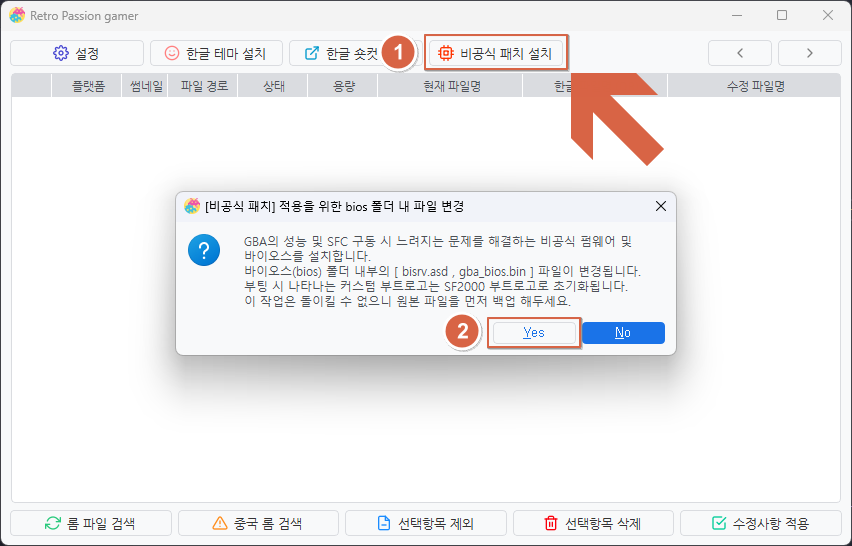
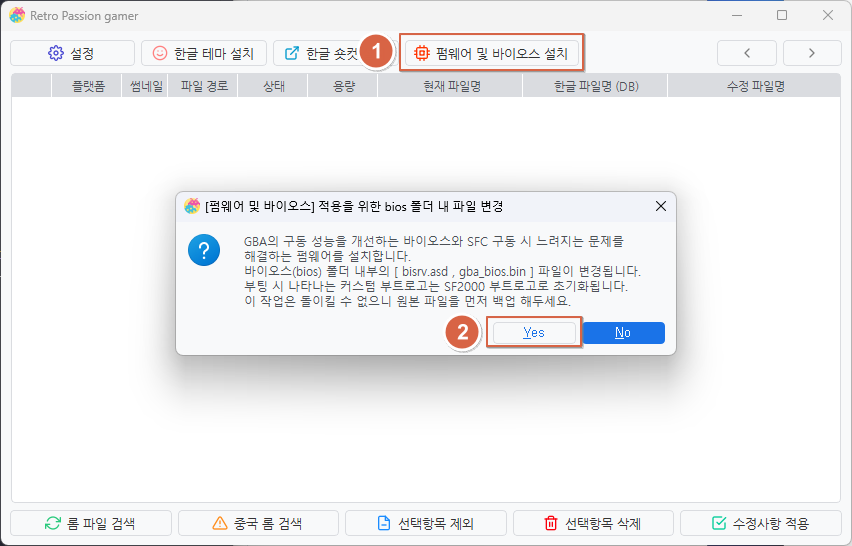
udpate desc

diff --git a/core/gui/behavior.py b/core/gui/behavior.py
@@ -773,8 +773,8 @@ class GuiBehavior:
         return reply == QMessageBox.Yes
 
     def confirm_bios_change(self):
-        message = "GBA의 성능 및 SFC 구동 시 느려지는 문제를 해결하는 비공식 펌웨어 및 바이오스를 설치합니다.\n바이오스(bios) 폴더 내부의 [ bisrv.asd , gba_bios.bin ] 파일이 변경됩니다.\n부팅 시 나타나는 커스텀 부트로고는 SF2000 부트로고로 초기화됩니다.\n이 작업은 돌이킬 수 없으니 원본 파일을 먼저 백업 해두세요."
-        reply = QMessageBox.question(None, '[비공식 패치] 적용을 위한 bios 폴더 내 파일 변경', message,
+        message = "GBA의 구동 성능을 개선하는 바이오스와 SFC 구동 시 느려지는 문제를 해결하는 펌웨어를 설치합니다.\n바이오스(bios) 폴더 내부의 [ bisrv.asd , gba_bios.bin ] 파일이 변경됩니다.\n부팅 시 나타나는 커스텀 부트로고는 SF2000 부트로고로 초기화됩니다.\n이 작업은 돌이킬 수 없으니 원본 파일을 먼저 백업 해두세요."
+        reply = QMessageBox.question(None, '[펌웨어 및 바이오스] 적용을 위한 bios 폴더 내 파일 변경', message,
                                      QMessageBox.Yes | QMessageBox.No, QMessageBox.No)
         return reply == QMessageBox.Yes
 

diff --git a/core/gui/gui.py b/core/gui/gui.py
@@ -162,7 +162,7 @@ class Gui:
             QIcon(absp('res/icon/external-link.svg')), ' 한글 숏컷 설치')
 
         self.main.bios_btn = QPushButton(
-            QIcon(absp('res/icon/cpu.svg')), ' 비공식 패치 설치')
+            QIcon(absp('res/icon/cpu.svg')), ' 1.71 펌웨어 및 바이오스')
 
         self.main.refresh_btn = QPushButton(
             QIcon(absp('res/icon/refresh-cw.svg')), ' 롬 파일 검색')

diff --git a/README.md b/README.md
@@ -172,7 +172,7 @@
 </p>
 
 - `게임보이 어드밴스(GBA)` 구동 성능을 향상하는 바이오스와 `슈퍼 패미컴(SFC)` 의 느린 구동 문제를 해결하는 펌웨어를 설치할 수 있습니다.
-- (1) `비공식 패치 설치` 버튼을 누르고 (2) `Yes` 를 선택하면 `SD 카드`의 `bios` 폴더의 파일을 교체합니다.
+- (1) `1.71 펌웨어 및 바이오스` 버튼을 누르고 (2) `Yes` 를 선택하면 `SD 카드`의 `bios` 폴더의 파일을 교체합니다.
 
 <br/>
 <br/>
